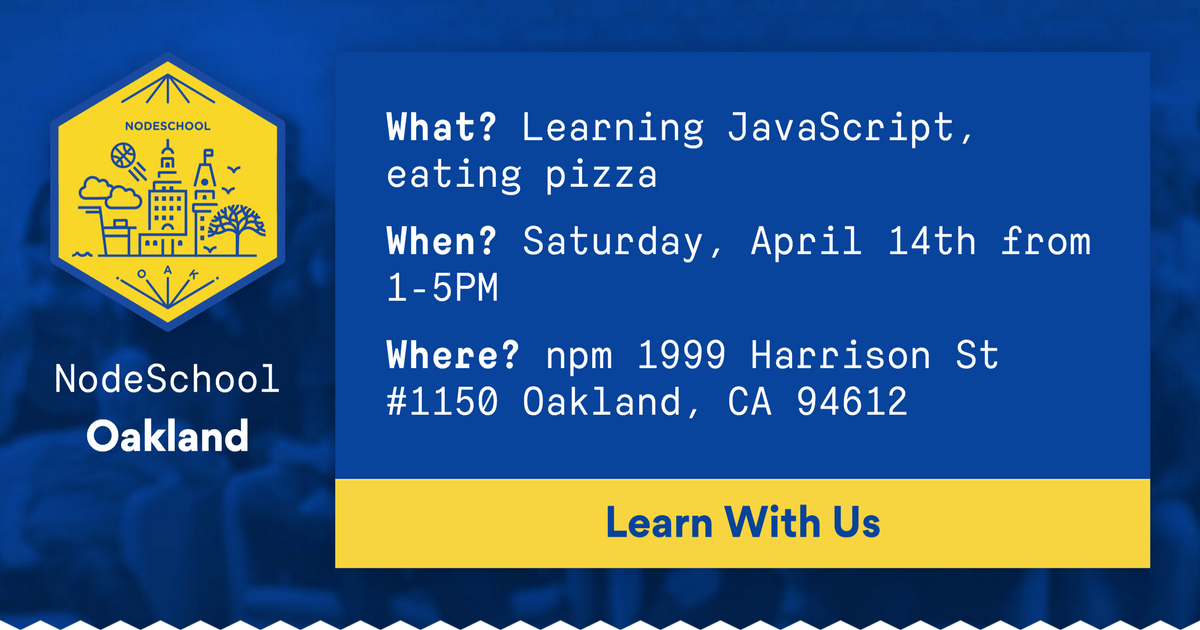
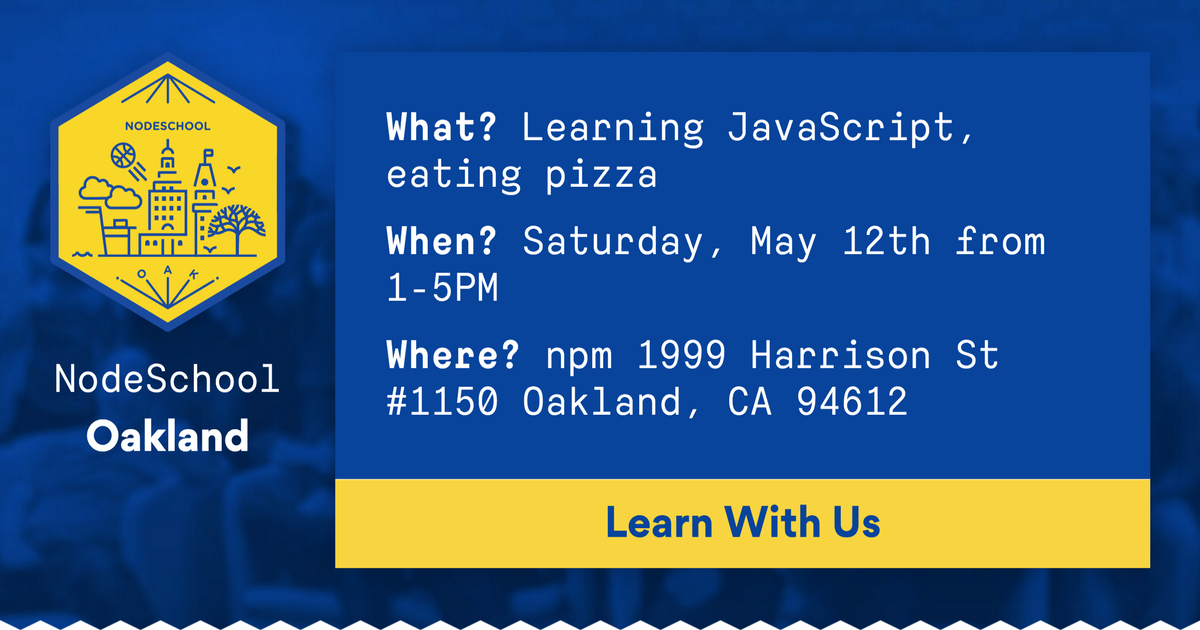
AUTOMATIC site update

Changed region(s): [[0.6167, 0.3619, 0.925, 0.4222]]

diff --git a/docs/index.html b/docs/index.html
@@ -7,14 +7,14 @@
     <meta property="og:type" content="website" />
     <meta property="og:description" content="NodeSchool Oakland is a monthly meetup dedicated to helping people learn JavaScript." />
     <meta property="og:url" content="https://nodeschool.io/oakland/" />
-    <meta property="og:image" content="https://nodeschool.io/oakland/images/social.png?t=1521835224809" />
+    <meta property="og:image" content="https://nodeschool.io/oakland/images/social.png?t=1525038780970" />
     <!--Twitter-->
     <meta name="twitter:card" content="summary_large_image">
     <meta name="twitter:site" content="@nodeschooloak">
     <meta name="twitter:creator" content="@nodeschooloak">
     <meta name="twitter:title" content="NodeSchool Oakland">
     <meta name="twitter:description" content="NodeSchool Oakland is a monthly meetup dedicated to helping people learn JavaScript.">
-    <meta name="twitter:image" content="https://nodeschool.io/oakland/images/social.png?t=1521835224809">
+    <meta name="twitter:image" content="https://nodeschool.io/oakland/images/social.png?t=1525038780970">
 
     <title>NodeSchool Oakland</title>
     <link rel="stylesheet" href="./styles/index.css" />
@@ -63,10 +63,10 @@
 
           <div class="next-event">
             <div class="next-event__description">
-              <h2 class="next-event__heading">Our Next Event is on April 14th</h2>
+              <h2 class="next-event__heading">Our Next Event is on May 12th</h2>
               <ul class="next-event__info">
                 <li class="next-event__info__item">
-                  <strong class="strong--alt">When?</strong> Saturday, April 14th from 1-5PM
+                  <strong class="strong--alt">When?</strong> Saturday, May 12th from 1-5PM
                 </li>
                 <li class="next-event__info__item">
                   <strong class="strong--alt">Where?</strong> npm 1999 Harrison St #1150 Oakland, CA 94612 [<a href="http://maps.google.com/?q=1999%20Harrison%20St%20%231150%20Oakland%2C%20CA%2094612">map</a>]
@@ -77,9 +77,9 @@
               </ul>
             </div>
             <nav class="next-event__actions">
-              <a class="next-event__action__learner next-event__action button" href="https:&#x2F;&#x2F;ti.to&#x2F;nodeschool-oakland&#x2F;nodeschool-oakland-april-2018">
+              <a class="next-event__action__learner next-event__action button" href="https:&#x2F;&#x2F;ti.to&#x2F;nodeschool-oakland&#x2F;nodeschool-oakland-may-2018">
                 Sign up as a Learner
-              </a><a class="next-event__action__mentor next-event__action button" href="https:&#x2F;&#x2F;github.com&#x2F;nodeschool&#x2F;oakland&#x2F;issues&#x2F;60">
+              </a><a class="next-event__action__mentor next-event__action button" href="https:&#x2F;&#x2F;github.com&#x2F;nodeschool&#x2F;oakland&#x2F;issues&#x2F;62">
                 Sign up as a Mentor
               </a>
             </nav>

diff --git a/docs/social.html b/docs/social.html
@@ -20,7 +20,7 @@
         <div class="social__message next-event">
           <div class="next-event__description">
             <p><strong>What?</strong> Learning JavaScript, eating pizza</p>
-            <p><strong>When?</strong> Saturday, April 14th from 1-5PM</p>
+            <p><strong>When?</strong> Saturday, May 12th from 1-5PM</p>
             <p><strong>Where?</strong> npm 1999 Harrison St #1150 Oakland, CA 94612</p>
           </div>
           <div class="next-event__actions">
